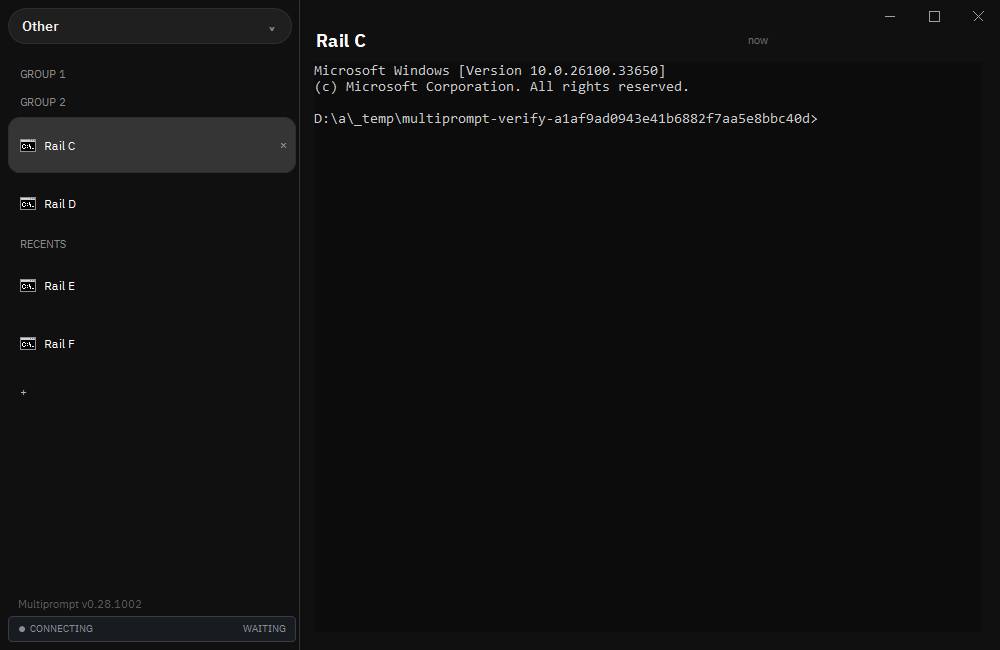
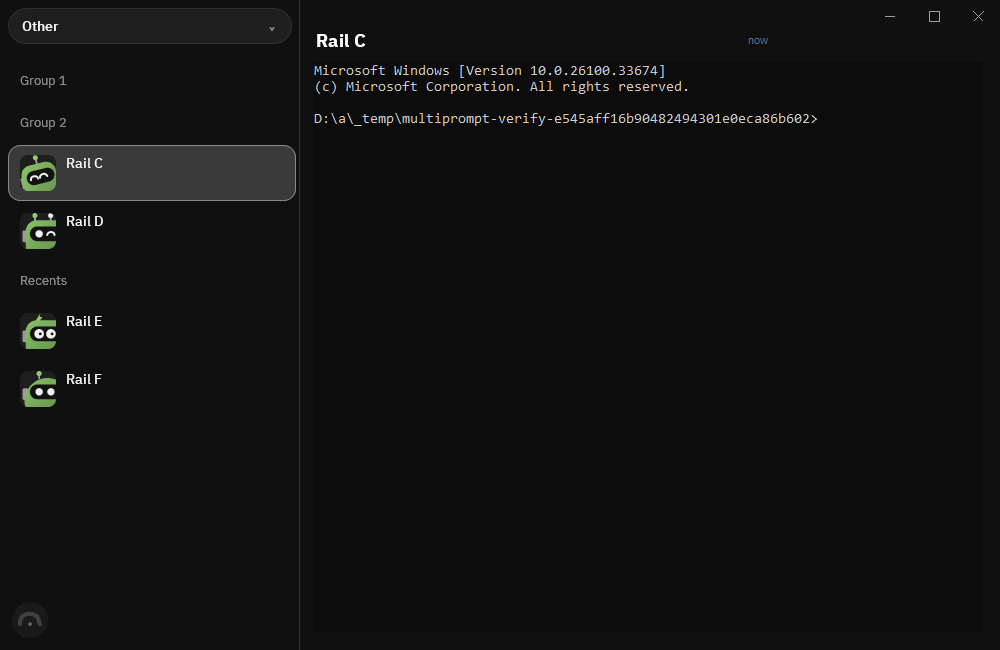
SOFT-2567: Align sidebar proofs with current header geometry
Master draws 42px scaled group and section headers with the shared mixed-case label font. Measure those actual rows and compare header letter heights instead of the retired 28px/capitalization assumptions. Match member foreground text independently from legitimate selection-background changes while retaining the existing pixel tolerance and mismatch cap.

Refresh the three group screenshot fixtures directly from hosted run 44276451514 at e6d6aba37. No image edits. Preserve blank-image and source-geometry checks, member disappearance/restoration, muted ink, no-arrow, no-fill, no-rail, and former-button-empty assertions.

Undo: git revert <commit-sha>.

diff --git a/tools/verify-multiprompt.test.js b/tools/verify-multiprompt.test.js
@@ -2368,7 +2368,7 @@ test('group proof samples and clicks below the workspace picker at every support
       (value, d, s) => Math.trunc(value * d * s / 9600)), expected,
     `group headline must clear the workspace picker: dpi=${dpi} scale=${scale} hidePills=${hidePills}`);
     assert.equal(rowTop({ Top: 31 }, Math.trunc(8 * dpi * scale / 9600), dpi, scale, hidePills,
-      (value, d, s) => Math.trunc(value * d * s / 9600)), expected + 28,
+      (value, d, s) => Math.trunc(value * d * s / 9600)), expected + Math.trunc(42 * dpi * scale / 9600),
     `pane icon scan must follow the group headline: dpi=${dpi} scale=${scale} hidePills=${hidePills}`);
   }
 });
@@ -2402,8 +2402,8 @@ $origin.X = 208; $origin.Y = 231
 foreach ($collapsed in @($false, $true)) {
     $proof = [GroupRailProof]::Check((Join-Path $PSScriptRoot 'sidebar.png'), $frame, $origin, 96, 100, $false, $collapsed, 300)
     if ($proof.headerTops[0] -ne 125) { throw 'First group overlaps the workspace picker' }
-    $second = if ($collapsed) { 153 } else { 269 }
-    if ($proof.headerTops[1] -ne $second -or $proof.sidebarRect[3] -ne ($second + 144)) { throw 'Member rectangles do not track group collapse' }
+    $second = if ($collapsed) { 167 } else { 283 }
+    if ($proof.headerTops[1] -ne $second -or $proof.sidebarRect[3] -ne ($second + 158)) { throw 'Member rectangles do not track group collapse' }
     if (-not $proof.noFill -or -not $proof.noRail -or $proof.flushLeft) { throw 'Pixel checks no longer inspect the blank image faithfully' }
 }
 $frame.Left = 0; $frame.Top = 0
@@ -2460,7 +2460,11 @@ test('release sidebar pixel oracles use the live width and approved expanded row
   const groups = source.slice(source.indexOf('public static class GroupRailProof {'), source.indexOf('public static class CodeFontProof {'));
   assert.doesNotMatch(groups, /S\(220, dpi, scale\)|S\(38, dpi, scale\)/);
   const height = Number(read('src/browser_pane.zig').match(/!app_state.g_sidebar_collapsed\) (\d+)/)[1]);
-  assert.equal(Number(groups.match(/headerHeight = 28, rowHeight = S\((\d+),/)[1]), height);
+  assert.equal(Number(groups.match(/rowHeight = S\((\d+),/)[1]), height);
+  const headerHeight = Number(read('src/sidebar.zig').match(/return if \(app_state.g_sidebar_collapsed\) GROUP_HEADER_H else uiScaled\((\d+)\)/)[1]);
+  assert.equal(Number(groups.match(/headerHeight = S\((\d+), dpi, scale\)/)[1]), headerHeight);
+  assert.equal(Number(groups.match(/sectionHeight = S\((\d+), dpi, scale\)/)[1]), headerHeight);
+  assert.match(groups, /sameLetterHeight/);
   assert.match(groups, /rowBottom = rowTop \+ S\(58, dpi, scale\)/);
   for (const feature of ['group-rail', 'pane-layout']) {
     const driver = read(skill + `control-feature-${feature}.ps1`);

diff --git a/.claude/skills/verify-multiprompt/control-native.cs b/.claude/skills/verify-multiprompt/control-native.cs
@@ -979,7 +979,7 @@ public static class GroupRailProof {
             int left = clientLeft + S(8, dpi, scale);
             int right = clientLeft + S(sidebarWidth, dpi, scale) - S(8, dpi, scale) / 2;
             int top = origin.Y - frame.Top + S(8, dpi, scale) + (hidePills ? 0 : 34) + S(52, dpi, scale);
-            int headerHeight = 28, rowHeight = S(58, dpi, scale);
+            int headerHeight = S(42, dpi, scale), rowHeight = S(58, dpi, scale);
             int secondHeader = top + headerHeight + (collapsed ? 0 : 2 * rowHeight);
             int groupBottom = secondHeader + headerHeight + 2 * rowHeight;
             var background = image.GetPixel(clientLeft + S(2, dpi, scale), top);
@@ -1052,10 +1052,10 @@ public static class GroupRailProof {
         using (var image = new System.Drawing.Bitmap(path)) {
             int clientLeft = origin.X - frame.Left;
             int right = clientLeft + S(sidebarWidth, dpi, scale) - S(8, dpi, scale);
-            int sectionHeight = 24, buttonHeight = 32;
+            int sectionHeight = S(42, dpi, scale), buttonHeight = S(32, dpi, scale);
             var muted = System.Drawing.Color.FromArgb(138, 138, 138);
             var sectionBackground = image.GetPixel(right, sectionTop + sectionHeight / 2);
-            int firstInk = -1, inkPixels = 0, mutedPixels = 0, topInk = int.MaxValue, inkColumns = 0;
+            int firstInk = -1, inkPixels = 0, mutedPixels = 0, topInk = int.MaxValue, bottomInk = -1, inkColumns = 0;
             var columnTops = new List<int>();
             var columnXs = new List<int>();
             for (int x = clientLeft + S(4, dpi, scale); x < right - S(8, dpi, scale); x++) {
@@ -1064,6 +1064,7 @@ public static class GroupRailProof {
                     var pixel = image.GetPixel(x, y);
                     if (Distance(pixel, sectionBackground) <= 30) continue;
                     inkPixels++;
+                    bottomInk = Math.Max(bottomInk, y);
                     if (Distance(pixel, muted) <= 16) mutedPixels++;
                     if (columnTop < 0) columnTop = y;
                 }
@@ -1088,6 +1089,17 @@ public static class GroupRailProof {
             bool noArrow = present && Math.Abs(firstInk - headlineX) <= Math.Max(3, S(3, dpi, scale));
             bool capitals = present && capRatio > 0.75;
             bool mutedInk = mutedPixels >= 8;
+            int groupTop = sectionTop - 2 * (sectionHeight + 2 * rowHeight);
+            int groupInkTop = int.MaxValue, groupInkBottom = -1;
+            var groupBackground = image.GetPixel(right, groupTop + sectionHeight / 2);
+            for (int y = groupTop + 1; y < groupTop + sectionHeight - 1; y++) {
+                for (int x = headlineX; x < right - S(8, dpi, scale); x++) {
+                    if (Distance(image.GetPixel(x, y), groupBackground) <= 30) continue;
+                    groupInkTop = Math.Min(groupInkTop, y);
+                    groupInkBottom = Math.Max(groupInkBottom, y);
+                }
+            }
+            bool sameLetterHeight = present && groupInkBottom >= groupInkTop && Math.Abs((bottomInk - topInk) - (groupInkBottom - groupInkTop)) <= Math.Max(1, S(2, dpi, scale));
             int buttonTop = sectionTop + sectionHeight + 2 * rowHeight + 4;
             var buttonBackground = image.GetPixel(right, buttonTop + buttonHeight / 2);
             int minX = int.MaxValue, maxX = -1, minY = int.MaxValue, maxY = -1, buttonInk = 0;
@@ -1104,7 +1116,8 @@ public static class GroupRailProof {
             proof["noArrow"] = noArrow;
             proof["capitals"] = capitals;
             proof["mutedInk"] = mutedInk;
-            proof["sameStyle"] = present && capitals && mutedInk && noArrow;
+            proof["sameLetterHeight"] = sameLetterHeight;
+            proof["sameStyle"] = present && sameLetterHeight && mutedInk && noArrow;
             proof["formerButtonRegionEmpty"] = formerButtonRegionEmpty;
             proof["labelFirstInkX"] = firstInk;
             proof["headlineX"] = headlineX;
@@ -1124,8 +1137,10 @@ public static class GroupRailProof {
             for (int dy = 0; dy < height; dy++) {
                 var original = baseline.GetPixel(x + dx, firstY + dy);
                 var actual = image.GetPixel(x + dx, secondY + dy);
-                if (original.R > 210 && original.G > 210 && original.B > 210) ink++;
-                if (Math.Abs(original.R - actual.R) > 48 || Math.Abs(original.G - actual.G) > 48 || Math.Abs(original.B - actual.B) > 48) changed++;
+                bool originalInk = original.R > 210 && original.G > 210 && original.B > 210;
+                bool actualInk = actual.R > 210 && actual.G > 210 && actual.B > 210;
+                if (originalInk) ink++;
+                if ((originalInk || actualInk) && (Math.Abs(original.R - actual.R) > 48 || Math.Abs(original.G - actual.G) > 48 || Math.Abs(original.B - actual.B) > 48)) changed++;
             }
         }
         return ink > 5 && changed <= 4;
@@ -1295,7 +1310,7 @@ public static class PaneLayoutProof {
             proof["gapRect"] = new int[] { gapLeft, client.Top, browserLeft, client.Bottom };
             proof["gripPixels"] = gripPixels;
             Require(forbidden == 0 && gapLeft >= right, "clean-gap", "forbidden ring/divider pixels=" + forbidden);
-            int rowTop = client.Top + gap + (hidePills ? 0 : 34) + S(52, dpi, scale) + 28;
+            int rowTop = client.Top + gap + (hidePills ? 0 : 34) + S(52, dpi, scale) + S(42, dpi, scale);
             int rowBottom = rowTop + S(58, dpi, scale);
             var railColor = System.Drawing.Color.FromArgb(145, 149, 157);
             int railPixels = 0;

diff --git a/.claude/skills/verify-multiprompt/features/group-rail.md b/.claude/skills/verify-multiprompt/features/group-rail.md
@@ -6,11 +6,11 @@ Verify on: push
 
 ## Sub-features
 
-- Each expanded-sidebar group has a small, muted, capitalised, left-aligned headline in the subtitle font, with no fill, colored rail or chevron.
+- Each expanded-sidebar group has a small, muted, left-aligned headline in the preview font. It preserves its name case, with no fill, colored rail or chevron.
 - The sidebar background remains visible across both edges of each headline row.
 - Sessions retain their existing indentation, icons, highlights and row heights beneath the headline; adjacent groups and ungrouped sessions remain separate.
 - Clicking the headline uses the existing group collapse action: members disappear and return, and the same collapsed memory is saved.
-- The built-in Recents label uses the same label style as a group headline: same font, #8A8A8A color, left edge and capitals, with no arrow in front of it.
+- The built-in Recents label uses the same label style as a group headline: same font height, #8A8A8A color and left edge, with no arrow in front of it.
 - The new-tab plus no longer appears below sessions.
 - Group color choices, right-click palette, rename, drag and drop, Ctrl+G and collapsed-sidebar mode are unchanged.
 
@@ -27,21 +27,21 @@ Dispatch `gh workflow run verify.yml --ref <branch> -f feature=group-rail`. The 
 
 1. Launch the isolated real Windows app, pass Doctor, choose Dark through Themes and select Tab Order: Manual through Ctrl+K `tab order`, Down, Enter before creating another session. Print `group-rail verified release tag=... version=...` and retain checksum/version provenance in build.json.
 2. Keep the existing real-session setup: rename the original CMD to Rail A, create Rail B, group them through Move to Group, then create Rail C through Rail F. Put Rail C and Rail D in a second group, leaving Rail E and Rail F ungrouped. Require exactly two groups, two members each and six saved sessions. Keep action.png from group creation.
-3. Select each first-group member with Ctrl+1 and Ctrl+2, require the saved active tab and capture group-rail-selected-0.png and group-rail-selected-1.png with UIA and native focus evidence.
-4. Derive geometry from the owned frame/client origin, actual DPI, saved UI scale and workspace-pill visibility, never from a header fill or rail. Group headers and workspace pills retain their production fixed heights of 28 and 34 pixels; member rows scale from 38 pixels. Compare both headers' full top and bottom scanlines with the unobstructed sidebar background, excluding only the divider column. Require zero fill mismatches at RGB tolerance three.
+3. Select Rail A and Rail B by their saved names through Ctrl+K. Require the saved active tab and capture group-rail-selected-0.png and group-rail-selected-1.png with UIA and native focus evidence.
+4. Derive geometry from the owned frame/client origin, actual DPI, saved UI scale and workspace-pill visibility, never from a header fill or rail. Expanded group headers scale from 42 pixels and member rows scale from 58 pixels. Workspace pills retain their 34-pixel height. Compare both headers' full top and bottom scanlines with the unobstructed sidebar background, excluding only the divider column. Require zero fill mismatches at RGB tolerance three.
 5. Inspect the entire left-edge band beside every member of both groups, including the active row. Require zero default group-colored pixels (RGB 145,149,157, tolerance two). Both selections keep the former selected-rail regression covered by absence rather than by expecting a rail elsewhere.
 6. Measure each headline's leftmost #8A8A8A text pixel and each first member's white name-text pixel. The headline must start at the session content inset within three scaled pixels, have no separate chevron-sized prefix gap and contain no bright old-style header text. Record the literal row-text x and its existing 16-pixel CMD icon plus 8-pixel gap separately: normalize that optional icon reservation before comparing the text origins, without changing session indentation.
-7. After Doctor, click the first headline with real ownership-checked mouse input. Require its persisted collapsed flag, capture group-rail-collapsed.png and matching JSON, then wait 700 ms and click the same headline 24 pixels further along, away from the double-click that opens the group rename, and require expanded memory. Capture group-rail-restored.png and matching JSON. Compare each original member row pixel for pixel (per-channel tolerance 48, at most four changed pixels allowed) at its original position and at every possible row position in the collapsed sidebar: neither row may remain. Both member rows must return unchanged at their original positions after expansion. Require unchanged six-session identities, membership, order and two-group count. Keep saved-state, geometry, pixel counts, UIA, focus, version/tag and click evidence in JSON.
-8. Inspect group-rail-selected-1.png and group-rail-labels.json. Check Recents below the second group. Align Recents ink with the first headline. Allow three scaled pixels. Require #8A8A8A text and no arrow prefix. Require a cap ratio above 0.75. Count capitals from the headline x onward. Check the former button region below Rail F. Require zero ink above background tolerance 30. Record bounds, ink box, and pixel count. Print `sidebar-label same-style PASS|FAIL`, `sidebar-label no-arrow PASS|FAIL` and `sidebar-former-button empty PASS|FAIL`.
+7. After Doctor, click the first headline with real ownership-checked mouse input. Require its persisted collapsed flag, capture group-rail-collapsed.png and matching JSON, then wait 700 ms and click the same headline 24 pixels further along, away from the double-click that opens the group rename, and require expanded memory. Capture group-rail-restored.png and matching JSON. Compare each original member's bright text pixels with per-channel tolerance 48 and at most four changed pixels at its original position and at every possible row position in the collapsed sidebar: neither row may remain. Both member rows must return unchanged at their original positions after expansion. Require unchanged six-session identities, membership, order and two-group count. Keep saved-state, geometry, pixel counts, UIA, focus, version/tag and click evidence in JSON.
+8. Inspect group-rail-selected-1.png and group-rail-labels.json. Check Recents below the second group. Align Recents ink with the first headline. Allow three scaled pixels. Require #8A8A8A text and no arrow prefix. Require its measured letter height to match the first group headline within two scaled pixels. Check the former button region below Rail F. Require zero ink above background tolerance 30. Record bounds, ink box, and pixel count. Print `sidebar-label same-style PASS|FAIL`, `sidebar-label no-arrow PASS|FAIL` and `sidebar-former-button empty PASS|FAIL`.
 9. Print `sidebar-headline no-fill PASS|FAIL`, `sidebar-headline no-rail PASS|FAIL`, `sidebar-headline flush-left PASS|FAIL` and `sidebar-headline click-toggle PASS|FAIL` from their respective assertions; throw if any fails, including the three label lines. Inspect both selection screenshots, collapsed/restored screenshots, action.png, after.png, result.json, build.json and owned-job cleanup.
 
 ## Gotchas
 
-Current source preserves group-name case and draws Recents literally, not all capitals. Expanded headers are scaled 42 px and unified member rows are scaled 58 px. The native driver still has a 28 px header assumption; treat that as a harness geometry gap, not proof of the current production dimensions.
+The driver uses the current 42-pixel expanded header geometry and 58-pixel member rows. Selected-row backgrounds may change during collapse. The member-text comparison excludes background-only pixels, while membership and visibility checks remain required.
 
 
-- Release v0.28.946 predates approved capitals and #8A8A8A labels. Run the identical journey against that tag. Require `sidebar-label same-style FAIL`. Old color and mixed case cause this failure. The current build still requires no arrow. It also requires the former button region empty.
-- Before IGSH-932, RECENTS had a leading arrow. The new-tab row also included text. Those builds must fail `sidebar-label no-arrow`. They must also fail `sidebar-former-button empty`. The former `sidebar-newtab plus-only` check rejected that text. Capitals alone do not pass the style check. Unread-only shares the former button region. This empty-region check requires unread-only mode off.
+- Mixed case is not a negative control. Current source preserves group names and draws Recents literally. Require matching letter heights, muted ink and alignment instead.
+- Before IGSH-932, RECENTS had a leading arrow. The new-tab row also included text. Those builds must fail `sidebar-label no-arrow`. They must also fail `sidebar-former-button empty`. The former `sidebar-newtab plus-only` check rejected that text. Letter height alone does not pass the style check. Unread-only shares the former button region. This empty-region check requires unread-only mode off.
 
 - The old release v0.28.861 has filled headers, a rail and a chevron: the identical journey must reach `sidebar-headline no-fill FAIL`, `sidebar-headline no-rail FAIL` and `sidebar-headline flush-left FAIL`. A launch, parser or geometry failure is not negative-control rendering proof. Any build retaining one of those decorations must fail its corresponding appearance assertion.
 - The CMD icon is not name text or a chevron. Literal session-name pixels sit after its reserved width; the headline uses the existing session content origin, not a new indentation. The evidence explicitly records this normalization rather than claiming the raw text x coordinates are identical.
@@ -51,6 +51,6 @@ Current source preserves group-name case and draws Recents literally, not all ca
 - The cyan ETA progress line is a separate session indicator, not a group rail; no ETA fixtures are created.
 - Real saved collapse state and disappearing/returning member text are both required. Merely changing JSON or capturing screenshots without inspecting pixels cannot pass the click gate.
 - Two clicks at the same spot inside the double-click time open the group rename editor instead of toggling. On 2026-10-25 a run failed exactly that way: the second click was a WM_LBUTTONDBLCLK and failure.uia.json showed an Edit element. The restore click therefore waits 700 ms and moves 24 pixels along the same headline.
-- Row comparison is pixel for pixel with a per-channel tolerance of 48 and at most four changed pixels, because selection moves the highlight and slightly shifts text colour, while a neighbour group's rows sliding up into the freed space differ by far more than that.
+- Row comparison checks bright text pixels with per-channel tolerance 48 and at most four changed pixels. Ignore background-only selection changes. Another group's text sliding into the freed space must not match.
 - Right-click, rename, keyboard collapse, drag and drop, relaunch persistence and collapsed-sidebar appearance are unchanged code paths, not additional live coverage claimed by this journey.
 - The app creates all session/group state; the driver only reads it. Offline mode does not prove sign-in, SSH, live agents or remote synchronization. GitHub Windows runs provide the live results; source-only VPS checks do not.
